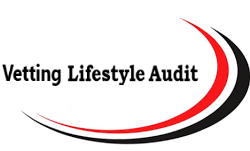
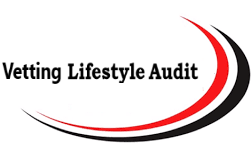
vserion 1.0.2

Changed region(s): [[0.084, 0.1067, 1.0, 0.96], [0.0, 0.4, 0.812, 0.5867]]

diff --git a/style1.css b/style1.css
@@ -3,7 +3,7 @@
     height: 200px;
     width: 300px;
     /* margin-right: 20px; */
-    background-image: url(./intelligence1.jpg);
+    background-image: url(./intelligence.png);
     background-size: contain;
     border-radius: 12px;
 }
